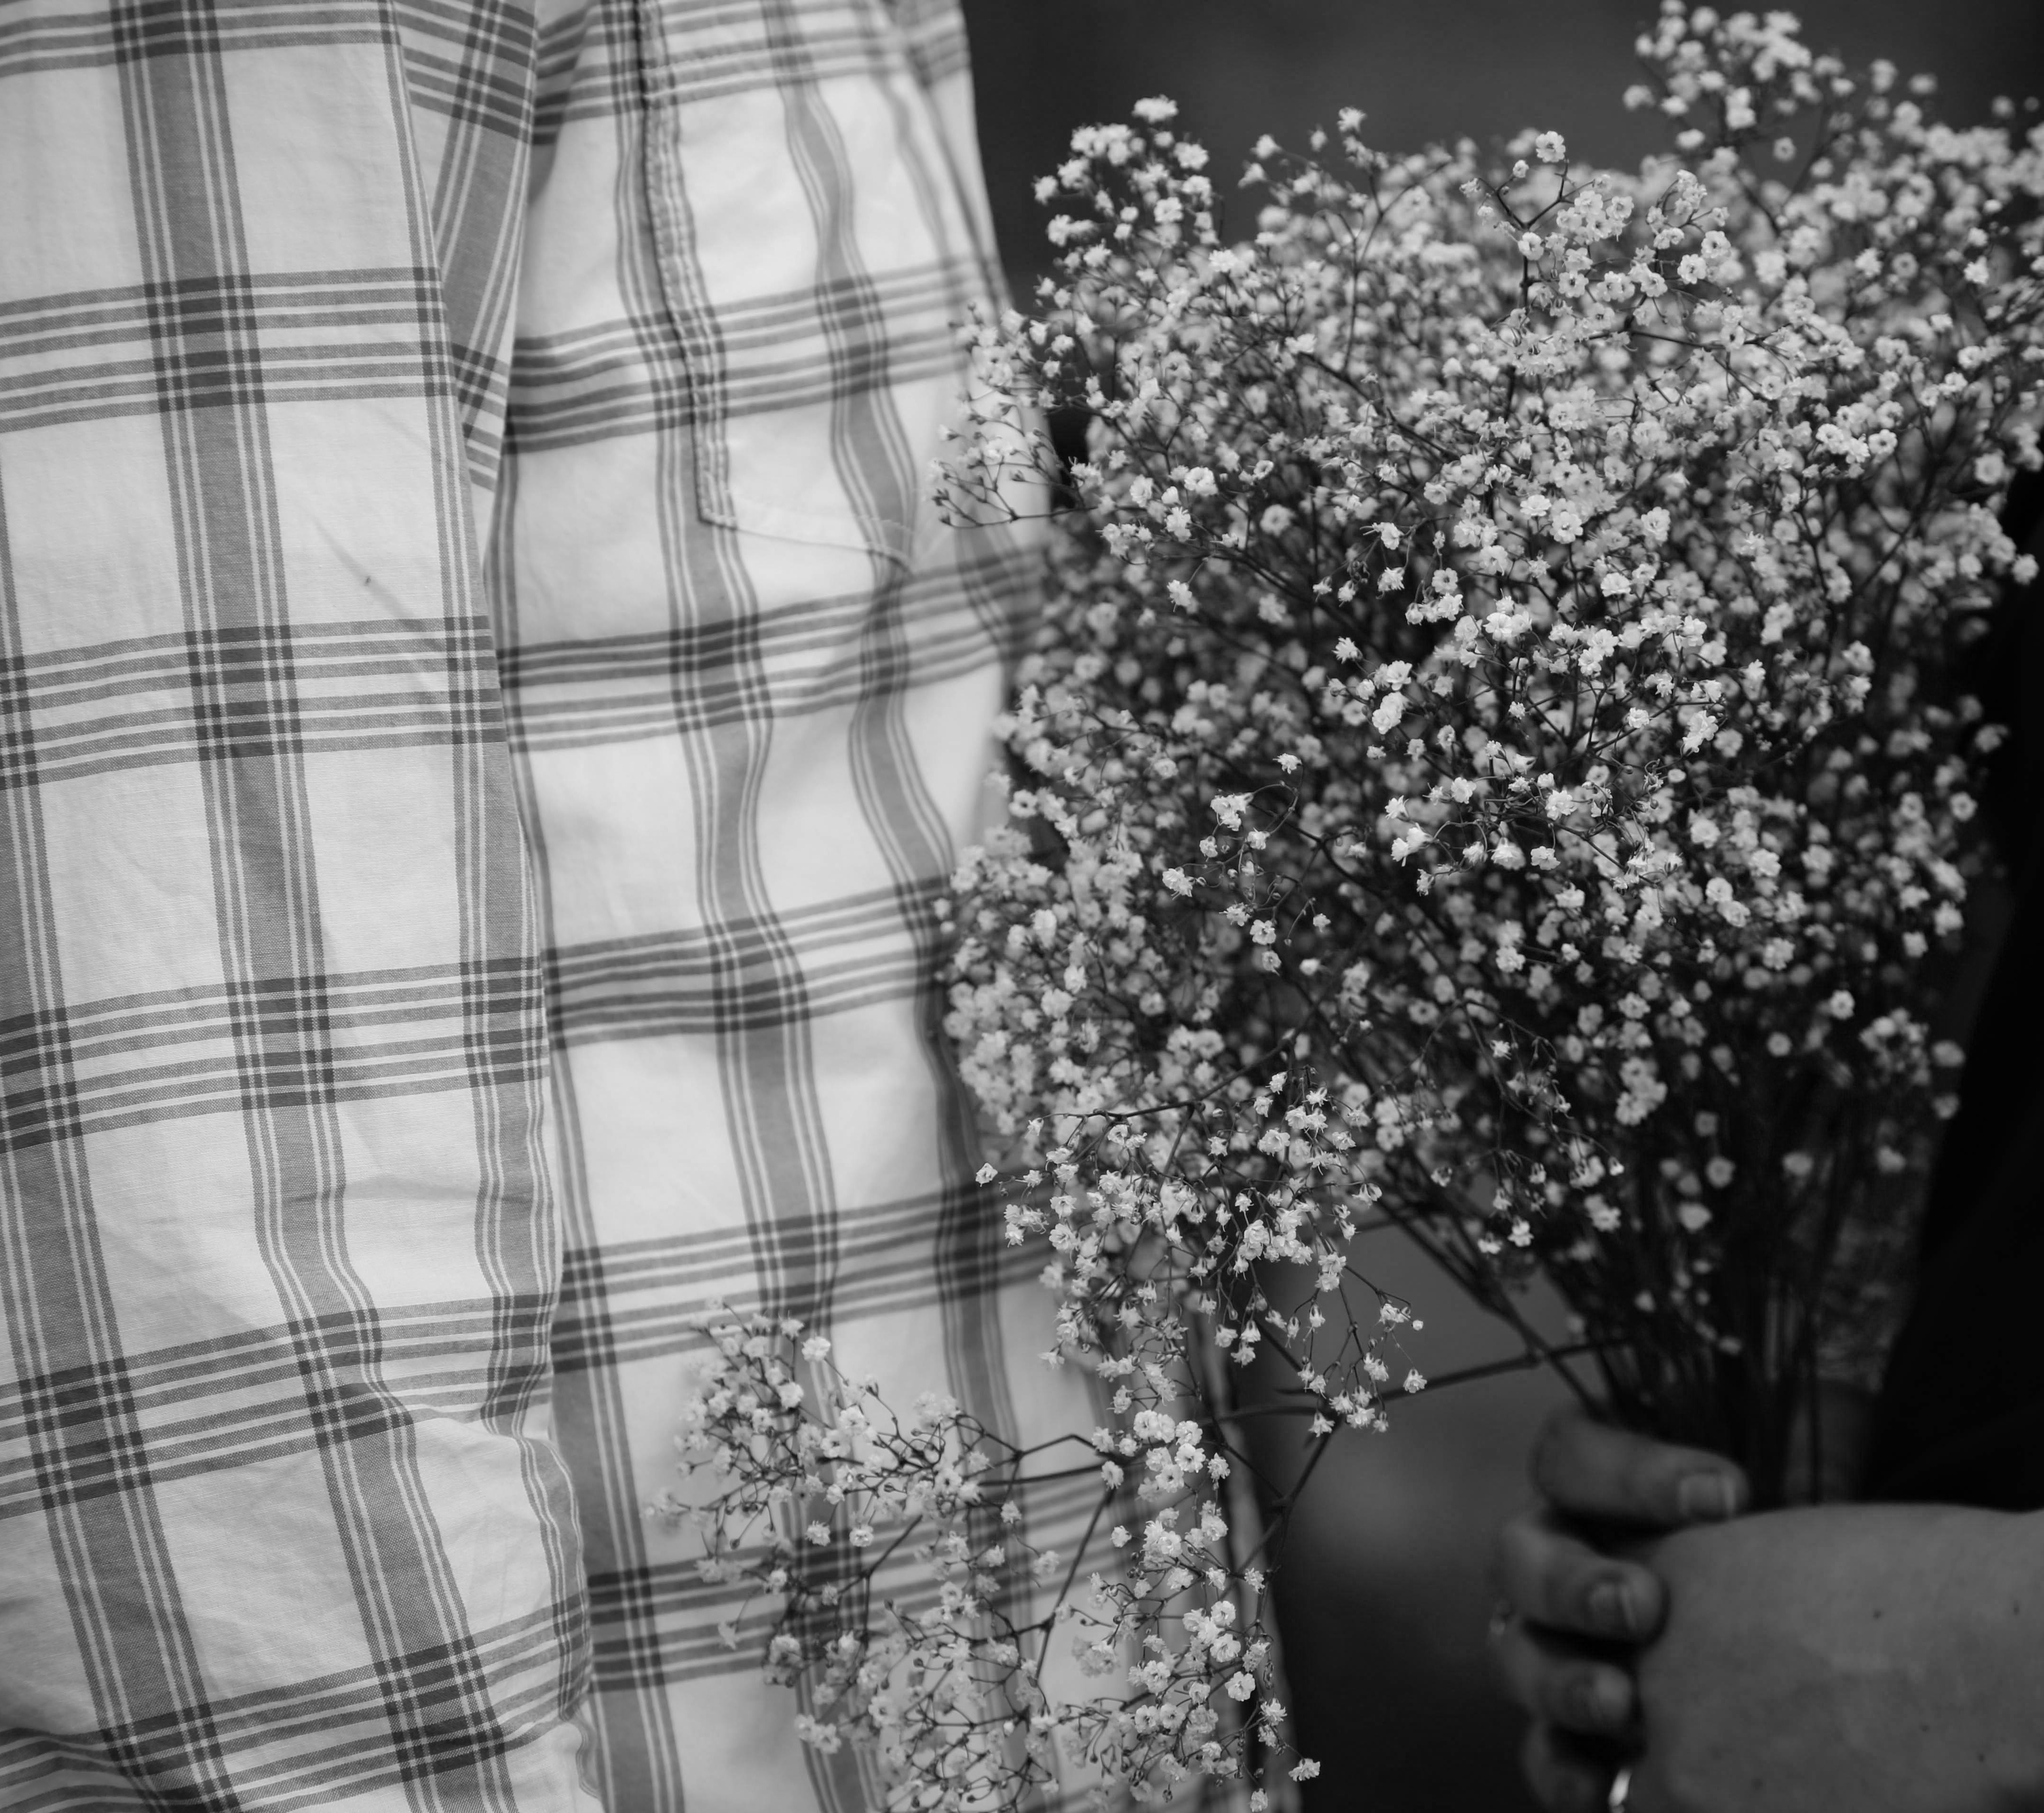
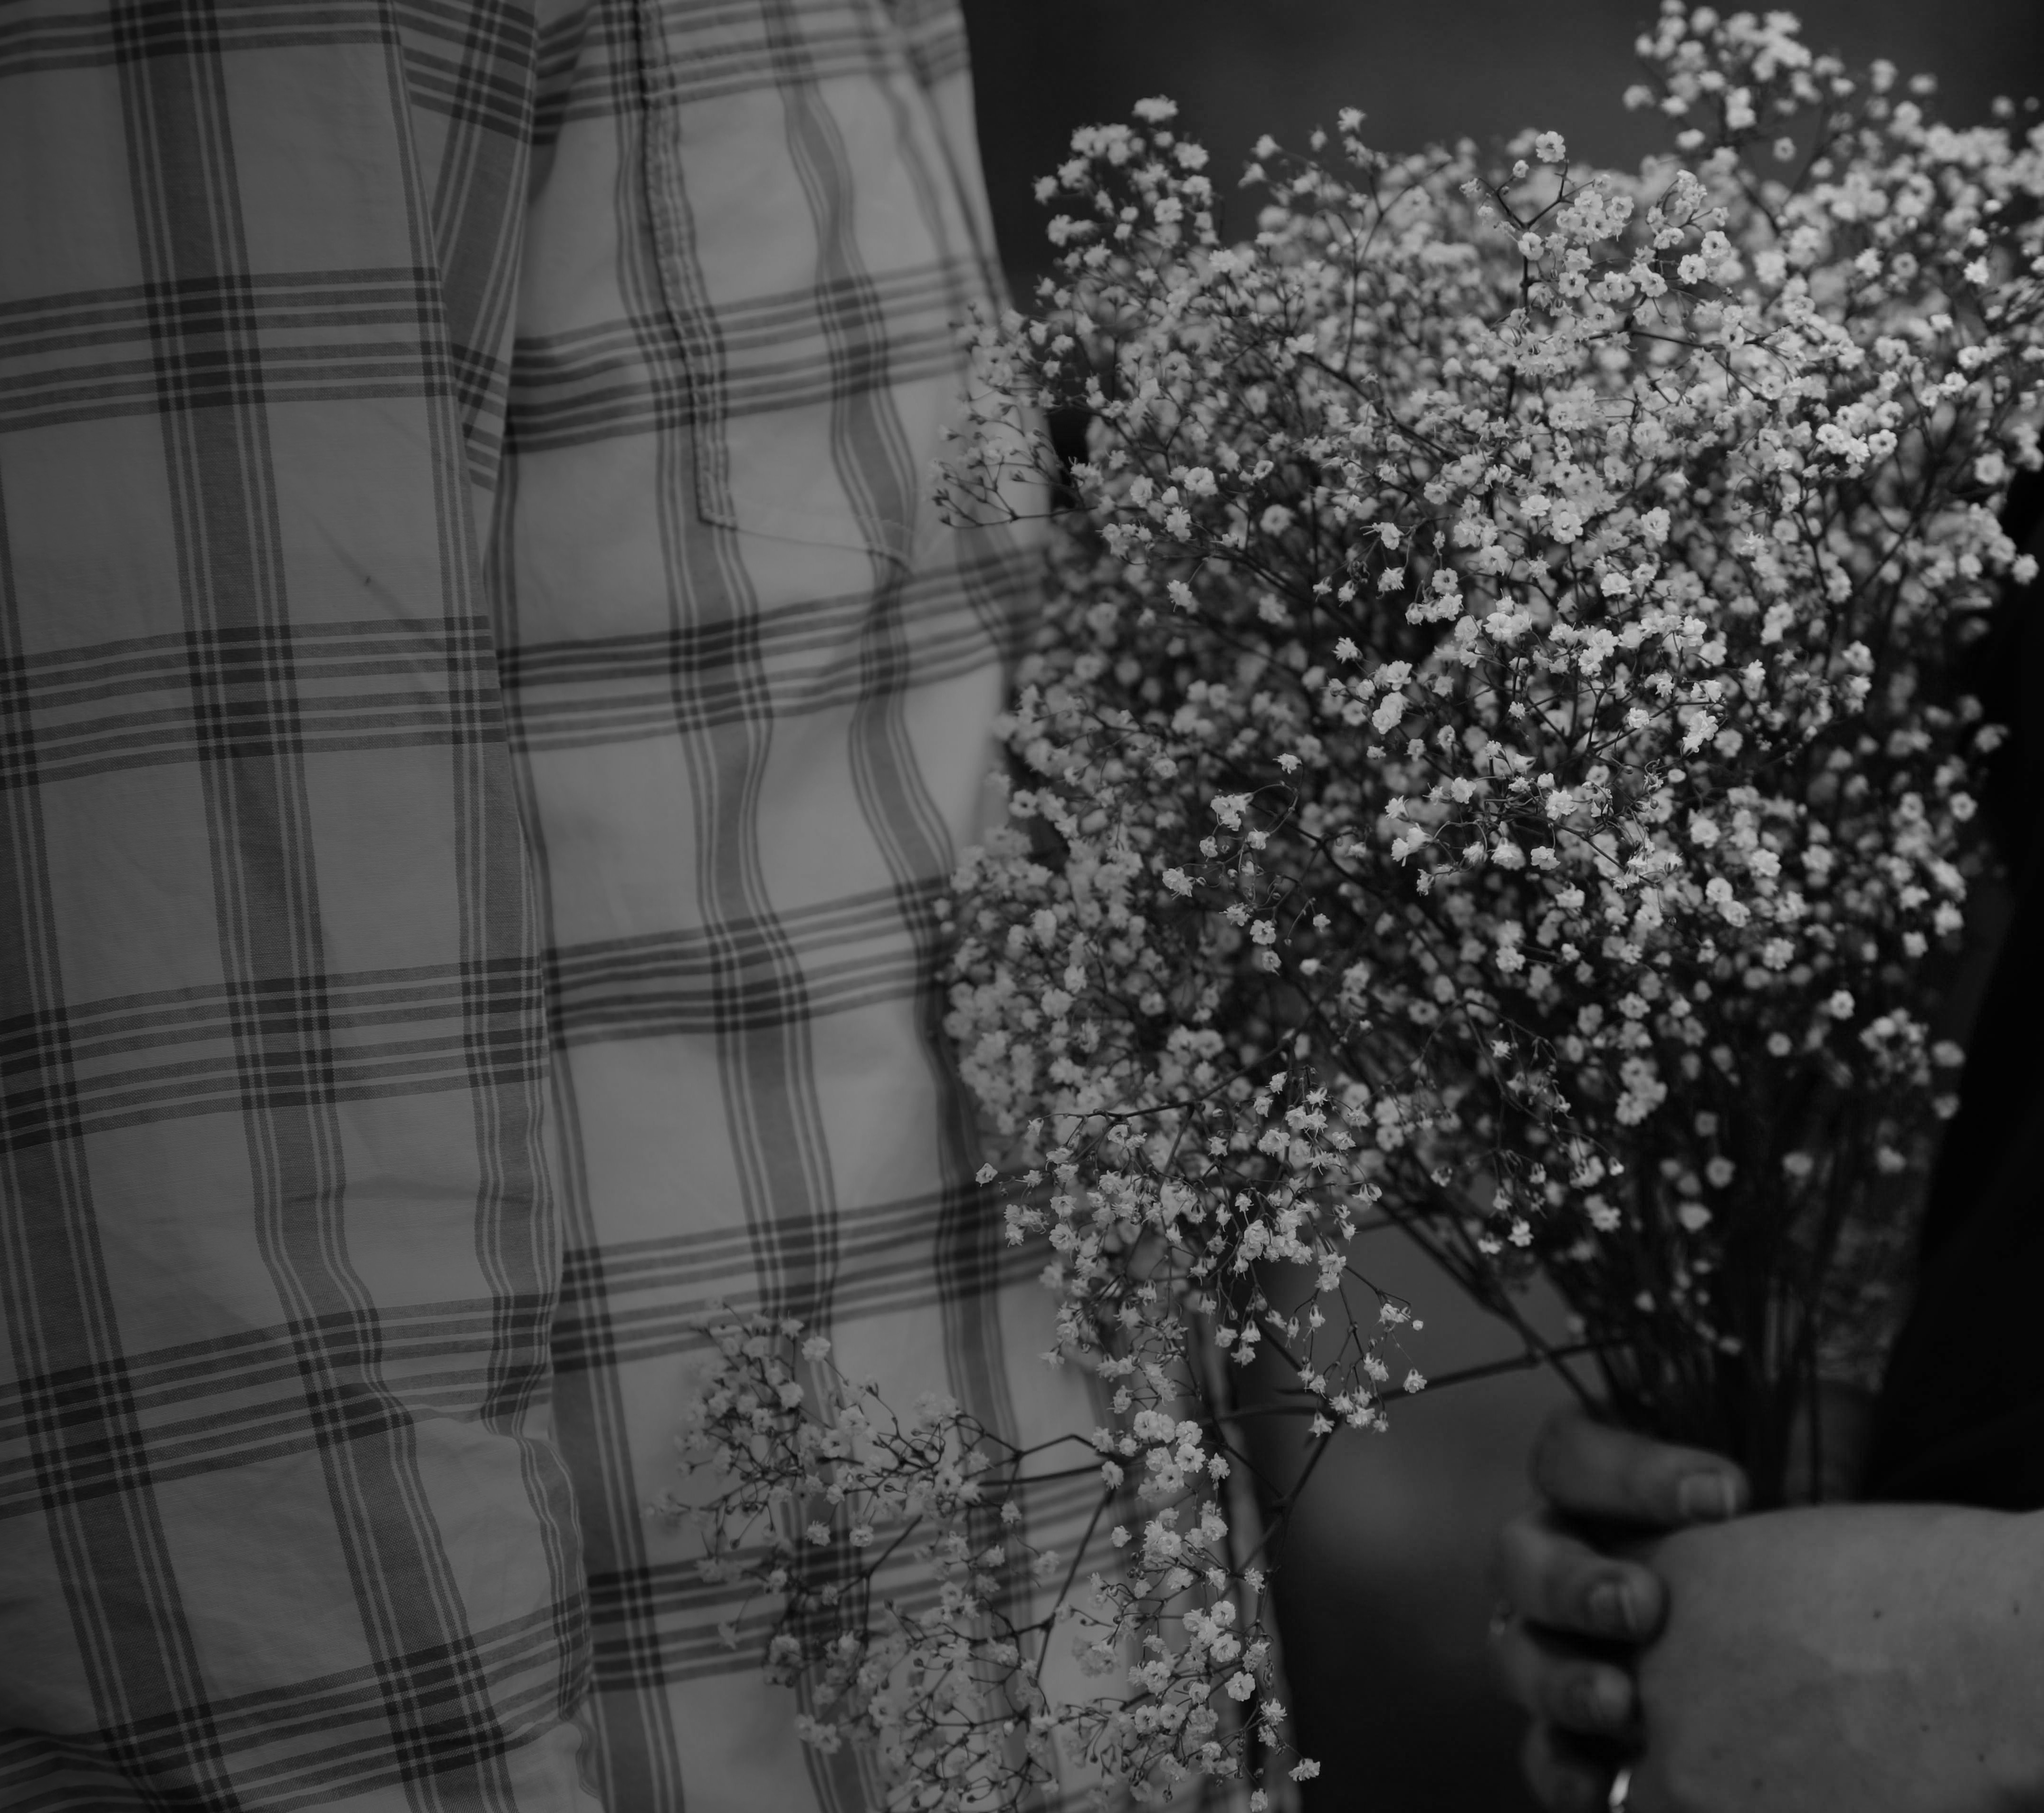
Getting Venue page up. Changing text color.

diff --git a/web/css/site.css b/web/css/site.css
@@ -7,7 +7,7 @@ body {
     background-size: cover;
     font-family: 'Dosis', 'Helvetica', 'Sans Serif';
     font-weight: 400;
-    color: white;
+    color: #fcfae8;
 }
 
 .wrap {
@@ -47,13 +47,14 @@ body {
 #navbar-links li:last-child { margin-left: 0px; margin-right: 0px; }
 
 #navbar-links li a, #navbar-links li a:hover, #navbar-links li a:active {
-    color: white;
+    color: #fcfae8;
     text-decoration: none;
     cursor: pointer;
     text-transform: uppercase;
 }
 
 h1.title {
+    color: #fcfae8;
     font-size: 30px;
     font-weight: 600;
     font-family: 'Dosis', 'Helvetica', 'Sans Serif';
@@ -66,6 +67,7 @@ p.content {
     margin: 20px 0px 0px 30px;
     font-family: 'Dosis', 'Helvetica', 'Sans Serif';
     line-height: 25px;
+    color: #fcfae8;
 }
 
 #home-page {
@@ -75,16 +77,18 @@ p.content {
 }
 
 .contact-page h1 {
+    color: #fcfae8;
     float: right;
     width: 58%;
 }
 
-#contact-form input[type=text], #contact-form textarea { border: 2px solid white; background-color: transparent; color: white; }
+#contact-form input[type=text], #contact-form textarea { border: 2px solid #fcfae8; background-color: transparent; color: #fcfae8; }
 
 #contact-form label {
     font-size: 20px;
     font-weight: 400;
     text-transform: uppercase;
+    color: #fcfae8;
 }
 
 #contact-form .help-block {
@@ -93,7 +97,7 @@ p.content {
 
 #contact-form button[type=submit] {
     background-color: transparent;
-    border: 2px solid white;
+    border: 2px solid #fcfae8;
     text-transform: uppercase;
     width: 120px;
 }
@@ -109,6 +113,10 @@ div.required label:after {
     color: #a94442;
 }
 
-a, a:visited, a:active {color: white; text-decoration: underline;}
+a, a:visited, a:active {color: #fcfae8; text-decoration: underline;}
+
+img#crepes {width: 590px; margin: 20px 0px 0px 30px;}
+
+.map {margin: 20px 0px 0px 30px;}
 
 .clear {clear: both;}

diff --git a/views/site/venue.php b/views/site/venue.php
@@ -4,10 +4,16 @@ use yii\helpers\Html;
 /**
  * @var yii\web\View $this
  */
-$this->title = 'Sam and Bryan | Registry';
+$this->title = 'Sam and Bryan | Venue';
 ?>
-<div id='home-page'>
-    <h1 class='title'>WELCOME!</h1>
-    <p class='content'>Sam and Bryan! Getting married! How did this happen? Sam and Bryan met in August 2011 while both were attending Westmont College. Bryan was struck by Sam's stomach-butterflies-inducing beauty, sharp intelligence, fun personality, and willingness to tell happy freshmen girls that life was meaningless. Sam was impressed by Bryan's devilish good looks, deep, sexy voice, debonair sense of style, and gentlemanly charm. They went on a coffee date, and before long they found themselves falling in love, quite accidentally.</p>
-    <p class='content'>Despite their original plans to marry late, they soon realized they were meant to be together forever. On December 23, 2013, Bryan proposed to Sam in the most romantic way possible: steak dinner by candlelight and firelight under the stars, in the tropical paradise known to some as Sam's parents' backyard. She said yes, and then they built this website (with a little help from the estimable Corey Watts).</p>
+<div id='venue-page'>
+    <h1 class='title'>VENUE</h1>
+    <p class='content'>We will be married at the Tuscan Villa Estate in Simi Valley, California. We're excited about this venue; it's a Mediterranean-style villa on a beautiful piece of property in the hills north of Los Angeles.</p>
+
+    <iframe class='map' src="https://www.google.com/maps/embed?pb=!1m14!1m8!1m3!1d3297.5159553134276!2d-118.654486!3d34.260893!3m2!1i1024!2i768!4f13.1!3m3!1m2!1s0x80c282b75f46b541%3A0x1740eea5f7504be0!2s1248+Rocky+Rd!5e0!3m2!1sen!2sus!4v1404278603895" width="590" height="450" frameborder="0" style="border:0"></iframe>
+
+    <p class='content'>And how about dinner? Do crepes made fresh right in front of you sound good? Because that sounded good to us. Yeah. Crepes. That's happening.</p>
+
+    <img src='/img/crepes.jpg' id='crepes' title='crepes' alt='crepes' />
+
 </div>

diff --git a/controllers/SiteController.php b/controllers/SiteController.php
@@ -40,7 +40,7 @@ class SiteController extends Controller
 
     public function actionVenue()
     {
-        $this->background = "background.jpg";
+        $this->background = "venue_background.jpg";
         return $this->render('venue');
     }
 
